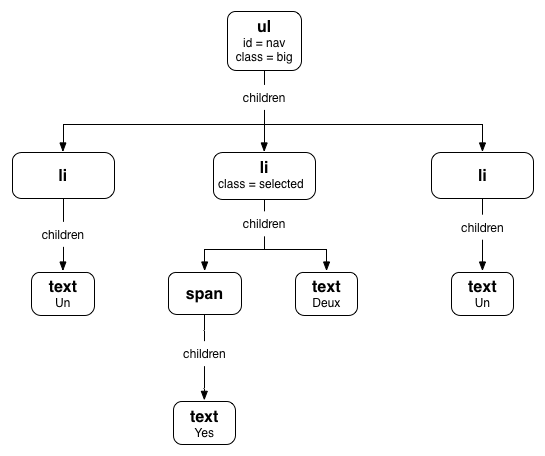
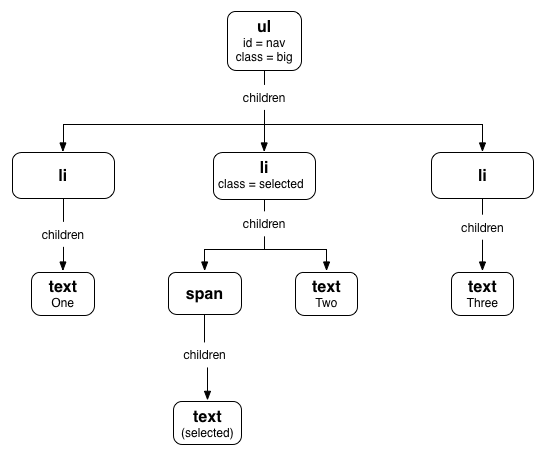
Ian review 2

diff --git a/introduction-dom/index.html b/introduction-dom/index.html
@@ -6,9 +6,9 @@
 <body>
   
 <ul id="nav" class="big">
-  <li> Un </li>
-  <li class="selected"> Deux <span>Yes</span> </li>
-  <li> Trois </li>
+  <li> One </li>
+  <li class="selected"> Two <span>(selected)</span> </li>
+  <li> Three </li>
 </ul>
   
 <script>

diff --git a/.guides/dom-manip/public/js/dom.js b/.guides/dom-manip/public/js/dom.js
@@ -62,6 +62,11 @@ function runCommand(command_text) {
       break
       
     case "run9":
+      $("#container").append("<p> Hello </p>")
+      
+      break
+      
+    case "run91":
       $("#container").html("<p> Hello </p>")
       
       break

diff --git a/.guides/dom-manip/index-removing2.html b/.guides/dom-manip/index-removing2.html
@@ -6,8 +6,10 @@
 </head>
 <body>
   
-<div id="container"> 
-<p> Click "RUN THIS CODE" button in the left hand pane to add more here. </p>  
+<div id="container">
+<p> A first paragraph </p>
+<p> A second one </p>
+<p> A third one </p>
 </div>
 
   

diff --git a/ar-challenge-jquery/challenge.html b/ar-challenge-jquery/challenge.html
@@ -4,6 +4,10 @@
   <title> Adding/Removing challenge </title>
 </head>
 <body>
+
+<div id="explanation">
+  Follow the explanations of the challenge in the left hand pane and you will see something here.
+</div>
   
 <div id="container">
 

diff --git a/ar-challenge-js/challenge.html b/ar-challenge-js/challenge.html
@@ -5,8 +5,12 @@
 </head>
 <body>
   
+<div id="explanation">
+  Follow the explanations of the challenge in the left hand pane and you will see something here.
+</div>
+  
 <div id="container">
-
+  
 </div>
 
 <script>

diff --git a/.guides/content/Altering-styles-9be7.md b/.guides/content/Altering-styles-9be7.md
@@ -1,10 +1,14 @@
-In JS there are two main ways of changing the style of an element. The first option is to add style attributes directly to its inline "style" attribute. The second option is to add a CSS 'class' to the element and then put any style you want attached to this 'class' via CSS. In this section we will see how to use the first option.
+In JS there are two main ways of changing the style of an element: 
+1. Add style attributes directly to its inline "style" attribute. 
+1. Add a CSS 'class' to the element and then put any style you want attached to this 'class' via CSS. 
+
+In this section we will see how to use the first option.
 
 ### Accessing the inline style of an element
 
 You access the inline style of an element by using its `style` property.
 
-But first, you need to change the name of the CSS property that you want to acces to what's called "camelCase notation". Basically you remove any "-" in your property name and you put an uppercase letter in the word after the removed "-".
+But first, you need to change the name of the CSS property that you want to access  to what's called "camelCase notation". Basically you remove any "-" in your property name and you put an uppercase letter in the word after the removed "-".
 
 For example to access `background-color` you would use `backgroundColor`.
 And to access `font-weight` you would use `fontWeight`.

diff --git a/.guides/content/Altering-styles-117f.md b/.guides/content/Altering-styles-117f.md
@@ -1,4 +1,4 @@
-### Accessing the inline style of an element
+<p style="text-align:center;">This code from section 3.8: </p>
 
 ```
 var x = document.getElementById("container");
@@ -6,7 +6,7 @@ x.style.color = 'red'
 x.style.backgroundColor = 'blue'
 x.style.fontWeight = 'bold'
 ```
-<p style="text-align:center;"> <img src=".guides/img/arrow_down.png" class="arrow_down" /> No camelcase necessary with jQuery <img src=".guides/img/arrow_down.png" class="arrow_down" /> </p>
+<p style="text-align:center;"> <img src=".guides/img/arrow_down.png" class="arrow_down" /> Becomes with Jquery <img src=".guides/img/arrow_down.png" class="arrow_down" /> </p>
 
 ```
 var x = $("#container");
@@ -26,3 +26,5 @@ $('#container').css({
 
 
 Here we use the jQuery `.css()` function, You can either give it two strings as parameters and it will then set the css property given in the first parameter to the value given in the second one. Or you can pass an object as parameter as in the second example.
+
+As you may have noticed from the jQuery example above, when using the jQuery `.css()` function, you don't need to camelCase the CSS properties as you were doing in section 3.8, you can use the normal CSS properties and jQuery will take care of the rest.

diff --git a/.guides/content/Introduction-to-jQuery-709a.md b/.guides/content/Introduction-to-jQuery-709a.md
@@ -4,6 +4,6 @@ jQuery is a widely used javascript library, that was designed to:
 1. Ease our lives as web developers when manipulating HTML pages with JS. 
 1. Be cross-browser so we use only one code and it will work on any browser.
 
-jQuery dates from a time where there weren't many easy ways to manipulate the DOM with JS and also at that time all the browsers had their own version of DOM manipulation using JS so it was very hard and long to write JS code that would work on all of them.
+jQuery dates from a time where there weren't many easy ways to manipulate the DOM with JS and also at that time all the browsers had their own version of DOM manipulation using JS so it was very hard and time consuming to write JS code that would work on all of them.
 
 Nowadays things have standardized a lot and we have more common functions to manipulate the DOM as we have just seen. Anyway jQuery offers much more and has a very concise syntax which allows us to write short and powerful code.

diff --git a/.guides/content/Loading-jQuery--1--6077.md b/.guides/content/Loading-jQuery--1--6077.md
@@ -1,4 +1,4 @@
-There are basically two options for using jQuery. Either you download the jQuery script, put it on your server and load it from there. Or you can use the hosted version that they offer directly.
+There are basically two options for using jQuery. Either you download the jQuery script, put it on your server and load it from there. Or you can use the hosted version that they offer directly. In this section and the next one, we will explain you how to do it. You are not asked to do it yourself in this unit and it will be done for you when it's necessary.
 
 The option to download it on your server is safer, as you never know what jQuery will become and if they will continue offering a hosted version. But the second option should be quicker as they offer a CDN hosted version. A CDN means Content Distribution Network, which implies that they have servers everywhere in the world so a user downloading the file will always get a very close and fast server.
 

diff --git a/.guides/content/Removing-elements--2--15b8.md b/.guides/content/Removing-elements--2--15b8.md
@@ -1,6 +1,6 @@
 ### Asking their parent to remove them
 
-You can refresh the bottom left hand preview so we have some paragraphs again. The code below will not only remove all these paragraphs, but also the `div#container`.
+The code below will not only remove all these paragraphs, but also the `div#container`.
 
 ```
 var c = document.getElementById("container")
@@ -13,6 +13,6 @@ c.parentNode.removeChild(c)
 
 ### Attention
 
-There is a big difference between the two examples for removing an element offered above.
+There is a big difference between the two examples for removing an element seen on this and the previous page.
 1. The first one will empty everything inside our `div#container` so it will remove everything in it but the `div#container` will still exists afterwards.
 1. The second option completely removes the `div#container` from the DOM so it will not exist anymore afterwards.

diff --git a/.guides/content/Removing-CSS-classes-a9ba.md b/.guides/content/Removing-CSS-classes-a9ba.md
@@ -1,3 +1,4 @@
+<p style="text-align:center;">This code from section 3.10: </p>
 
 ```
 var x = document.getElementById("container")
@@ -16,4 +17,7 @@ if ($('#container').hasClass('cool')) {
 ```
 {Run this code}(node .guides/tests/run-this.js run17)
 
-Here we first use the `hasClass()` function which returns `true` if the element has the given class and false otherwise. Then we use `removeClass()` to remove it. The first call is optional has we could just use `removeClass` wether the element has the class or not, as jQuery will work in both ways.
+The first call to `hasClass()` is optional has we could just use `removeClass` whether the element has the class or not, as jQuery will work in both ways.
+
+The `hasClass()` function returns `true` if the element has the given class and false otherwise. Then we use `removeClass()` to remove it. 
+

diff --git a/.guides/content/Creating-elements-Using-HTML-strings-2287.md b/.guides/content/Creating-elements-Using-HTML-strings-2287.md
@@ -1,12 +1,16 @@
+<p style="text-align:center;">This code from section 3.1: </p>
+
 ```
-document.getElementById('container').innerHTML = "<p> Hello </p>"
+var my_p = "<p> Hello </p>"
+var my_div = document.getElementById("container")
+my_div.innerHTML += my_p
 ```
 
 <p style="text-align:center;"> <img src=".guides/img/arrow_down.png" class="arrow_down" /> Becomes with jQuery <img src=".guides/img/arrow_down.png" class="arrow_down" /> </p>
 
 ```
-$("#container").html("<p> Hello </p>")
+$("#container").append("<p> Hello </p>")
 ```
 {Run this code}(node .guides/tests/run-this.js run9)
 
-Here we use the `.html()` function of jQuery that sets the `innerHTML` of the element.
+Here we use the `.append()` function of jQuery that appends to the `innerHTML` of the element.
